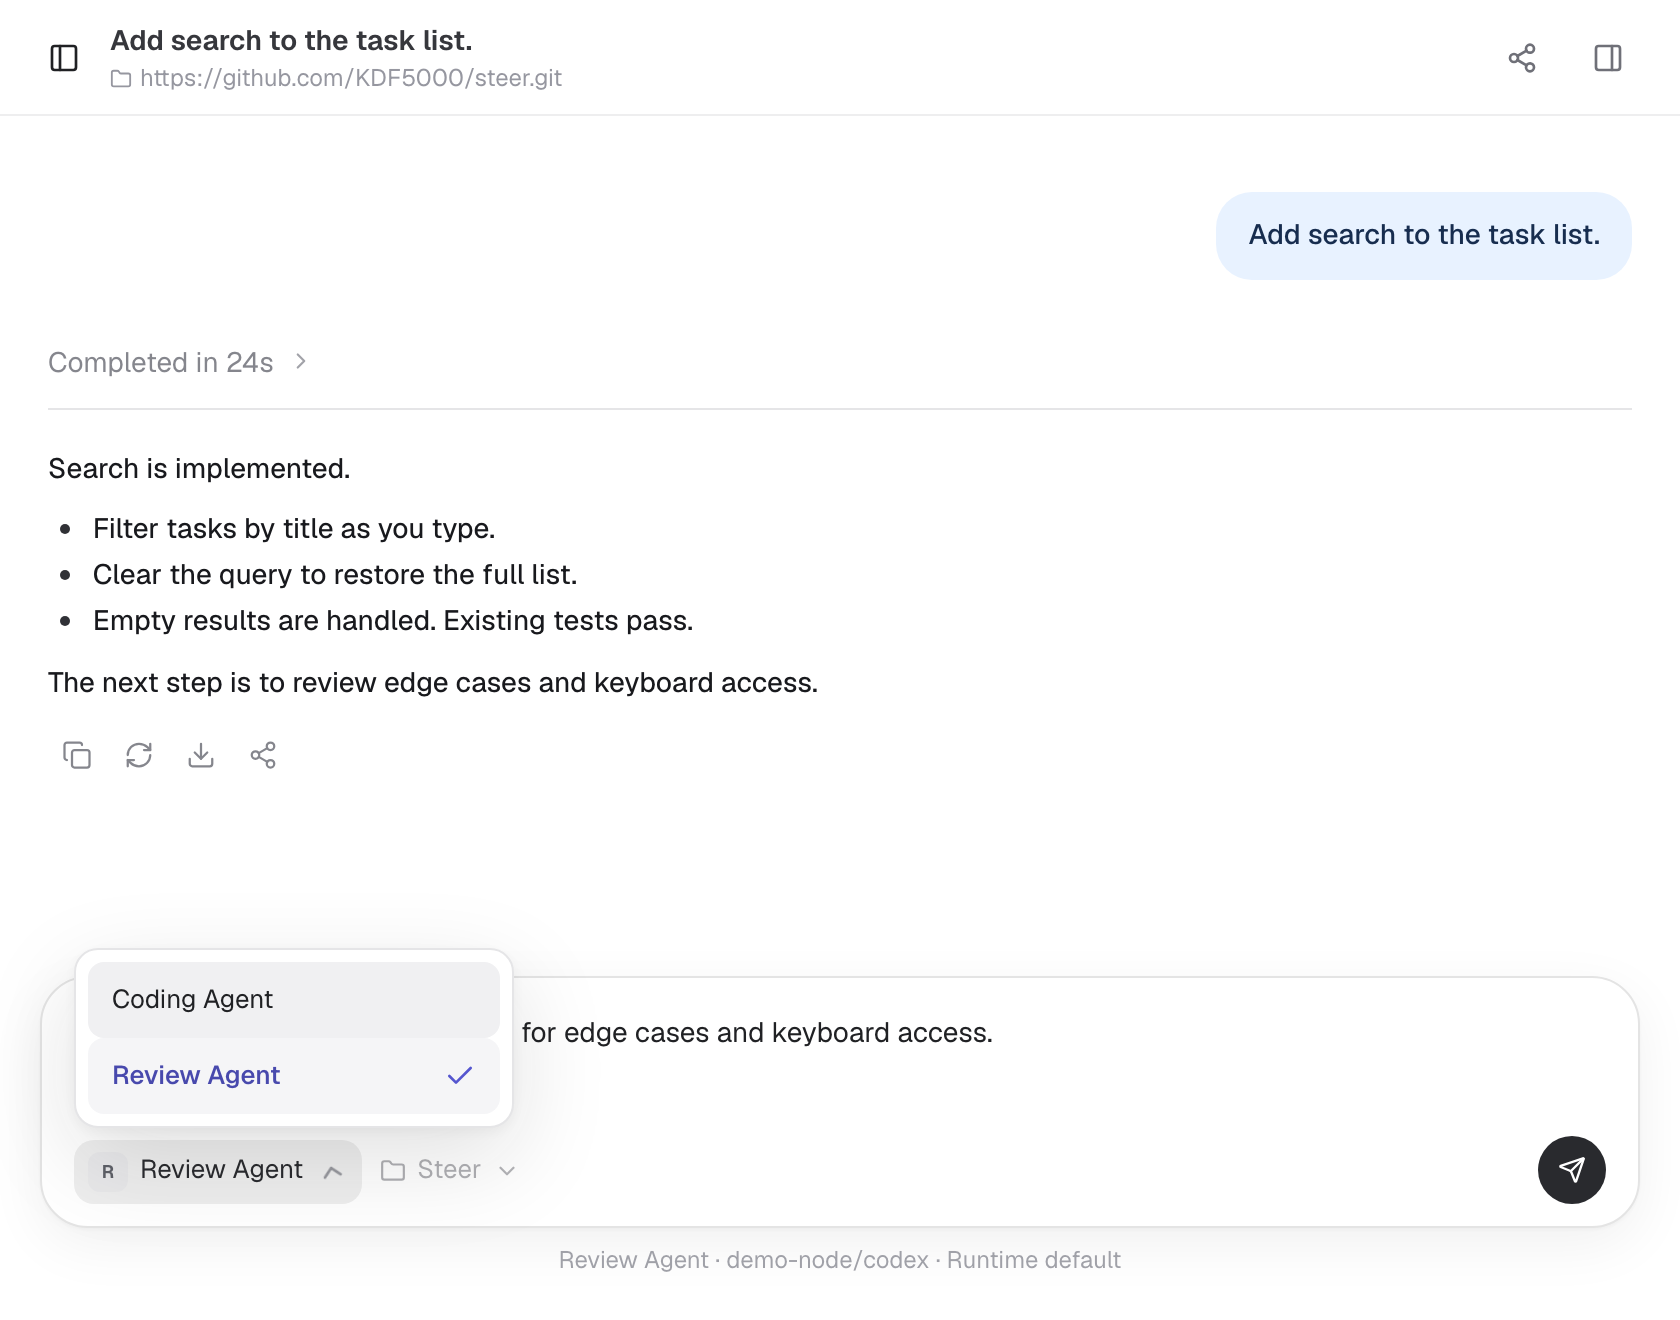
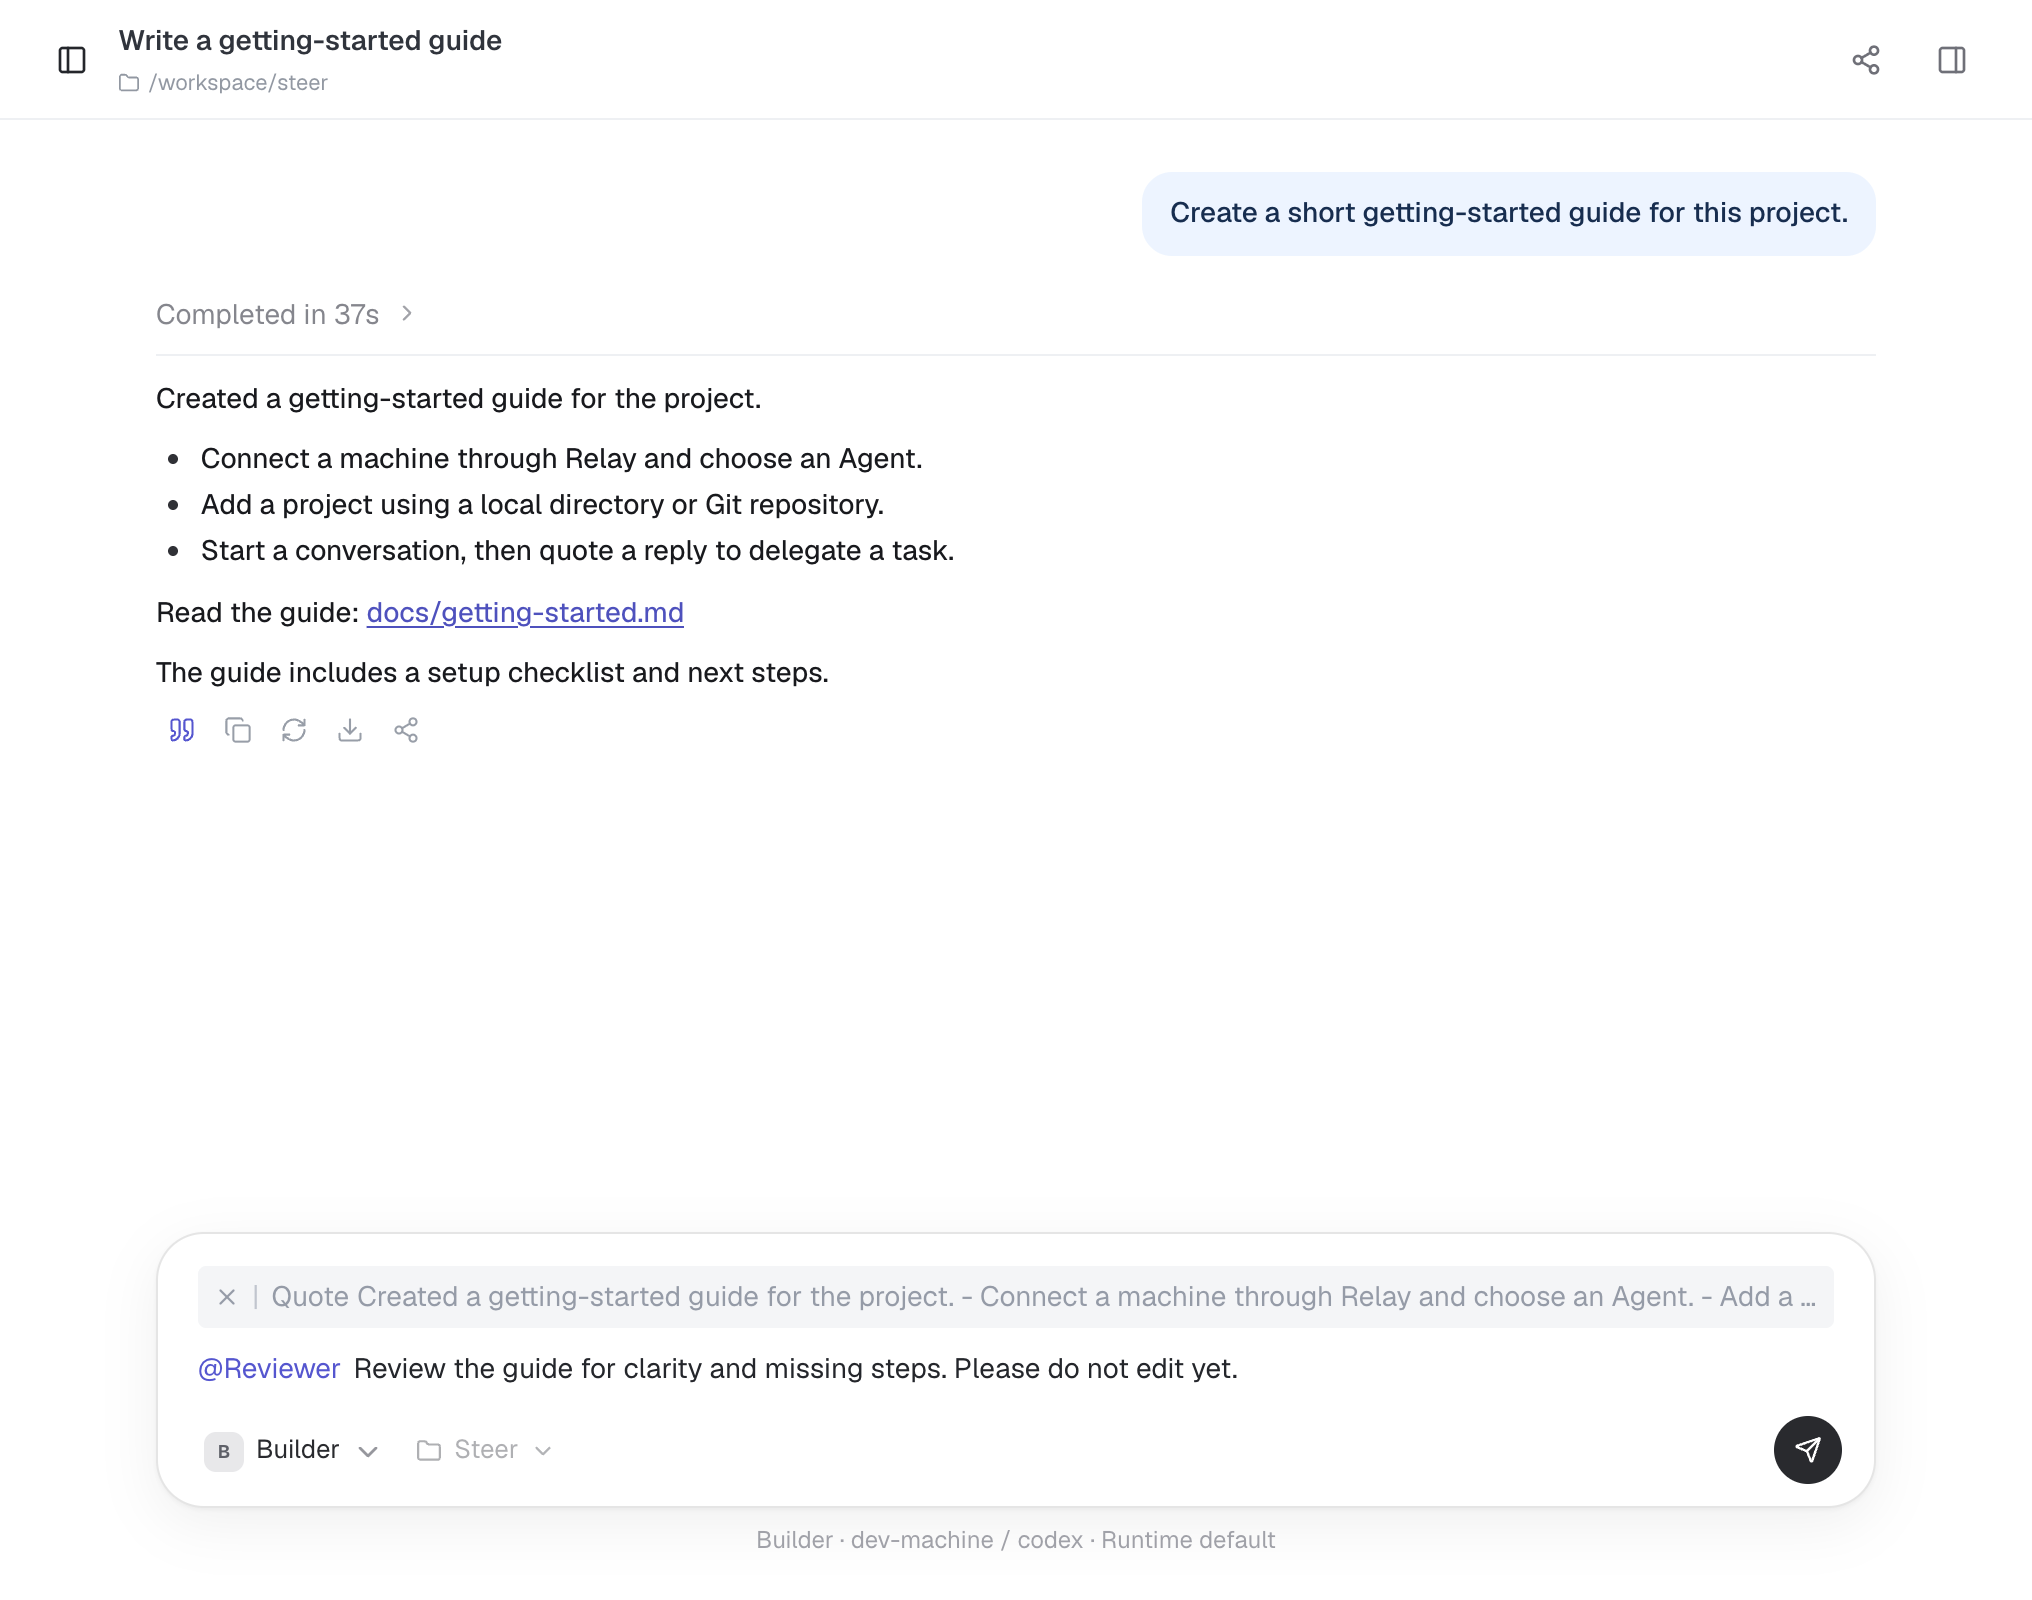
docs: refresh website product screenshots and runtime support

diff --git a/website/src/i18n.ts b/website/src/i18n.ts
@@ -61,13 +61,13 @@ export const homeZhCN = {
   'Steer Web': 'Steer Web',
   'Conversation Task API': 'Conversation Task API',
   'An open-source workspace for your agents': '统一管理多个 Agent 的开源工作台',
-  'Bring Codex, Trae, Claude Code, Pi, Qoder, and QwenWork into one workspace.':
-    '把 Codex、Trae、Claude Code、Pi、Qoder 和千问办公接入同一个工作台。',
+  'Bring Codex, Trae, Claude Code, OpenCode, Pi, Qoder, and QwenWork into one workspace.':
+    '把 Codex、Trae、Claude Code、OpenCode、Pi、Qoder 和千问办公接入同一个工作台。',
   QwenWork: '千问办公',
   'Run tasks on local or remote machines. Organize your work through projects and conversations.':
     '在本地或远程机器上执行任务，通过项目和会话统一管理工作。',
-  'Steer brings agents and runtimes across your machines into one open-source workspace. Connect Codex, Trae, Claude Code, Pi, Qoder, and QwenWork, run tasks locally or remotely, and organize work through projects and conversations.':
-    'Steer 将不同机器上的 Agent 和 Runtime 接入同一个开源工作台。连接 Codex、Trae、Claude Code、Pi、Qoder 和千问办公，在本地或远程执行任务，通过项目和会话统一管理工作。',
+  'Steer brings agents and runtimes across your machines into one open-source workspace. Connect Codex, Trae, Claude Code, OpenCode, Pi, Qoder, and QwenWork, run tasks locally or remotely, and organize work through projects and conversations.':
+    'Steer 将不同机器上的 Agent 和 Runtime 接入同一个开源工作台。连接 Codex、Trae、Claude Code、OpenCode、Pi、Qoder 和千问办公，在本地或远程执行任务，通过项目和会话统一管理工作。',
   'Choose a project. ': '选好项目，',
   'Give your agent a task.': '把具体任务交给 Agent。',
   'Choose a project and an agent': '选择项目和 Agent',
@@ -88,20 +88,20 @@ export const homeZhCN = {
   'Same conversation': '同一会话',
   'View the agent handoff screenshot in a new tab':
     '在新标签页查看切换 Agent 的截图',
-  'Real Steer conversation with completed implementation, the review agent selected, and a follow-up ready to send':
-    '真实 Steer 对话：保留已完成的实现，选中审查 Agent，准备发送后续检查请求',
-  'Real interface · example conversation, ready for review':
-    '真实界面 · 切换 Agent 后继续追问的示例',
-  'Switch between agents compatible with the conversation’s runtime.':
-    '可选择的 Agent 需与当前会话的运行环境兼容。',
+  'Real Steer conversation with a quoted reply and a same-machine agent selected for delegation':
+    '真实 Steer 对话：引用已有回复，选中同机 Agent，准备委派下一轮任务',
+  'Real interface · quote and delegate to another agent':
+    '真实界面 · 引用回复并委派给另一个 Agent',
+  'Project stays on one machine; choose any connected agent on that machine.':
+    '项目固定在一台机器上，可选择已接入工作区的同机 Agent。',
   'Local directory': '本地目录',
   'Work where your files live': '直接使用已有项目文件',
   'Git worktree': 'Git 工作区',
   'Separate changes for each conversation': '不同会话的改动互不干扰',
   'See the process. Keep the result.': '过程看得见，结果留得住。',
   'Preview, download, revisit': '可预览、下载，方便日后查看',
-  'Switch agents in the same conversation and keep the previous messages as context. Go from coding to review without explaining the task again.':
-    '在同一会话里切换 Agent，保留对话上下文。先写代码，再做审查，不必重新交代背景。',
+  'Switch agents or @mention a teammate. Delegate a task in its own session, then bring the result back to the conversation.':
+    '切换 Agent，或通过 @ 临时委派。任务在独立会话中执行，结果回到当前对话，继续推进。',
   'Start with a task. Review the result, ask follow-up questions, and keep going.':
     '提出任务、查看结果，再接着追问和调整。',
   'Choose a project and an agent, then describe the task.':

diff --git a/website/src/Home.tsx b/website/src/Home.tsx
@@ -131,7 +131,7 @@ export default function HomeContent({
           </h1>
           <p className="website_lead">
             {t(
-              'Bring Codex, Trae, Claude Code, Pi, Qoder, and QwenWork into one workspace.',
+              'Bring Codex, Trae, Claude Code, OpenCode, Pi, Qoder, and QwenWork into one workspace.',
             )}
             <br />
             {t(
@@ -220,6 +220,8 @@ export default function HomeContent({
             <strong>Trae</strong>
             <i />
             <strong>Claude Code</strong>
+            <i />
+            <strong>OpenCode</strong>
             <i />
             <strong>Pi</strong>
             <i />
@@ -352,7 +354,7 @@ export default function HomeContent({
             <h2>{t('Switch agents. Keep going.')}</h2>
             <p className="website_highlightCopy">
               {t(
-                'Switch agents in the same conversation and keep the previous messages as context. Go from coding to review without explaining the task again.',
+                'Switch agents or @mention a teammate. Delegate a task in its own session, then bring the result back to the conversation.',
               )}
             </p>
             <div
@@ -379,22 +381,22 @@ export default function HomeContent({
               >
                 <img
                   src={handoffScreenshot}
-                  width={1680}
-                  height={1320}
+                  width={2032}
+                  height={1600}
                   loading="lazy"
                   decoding="async"
                   alt={t(
-                    'Real Steer conversation with completed implementation, the review agent selected, and a follow-up ready to send',
+                    'Real Steer conversation with a quoted reply and a same-machine agent selected for delegation',
                   )}
                 />
               </a>
               <figcaption>
-                {t('Real interface · example conversation, ready for review')}
+                {t('Real interface · quote and delegate to another agent')}
               </figcaption>
             </figure>
             <p className="website_handoffNote">
               {t(
-                'Switch between agents compatible with the conversation’s runtime.',
+                'Project stays on one machine; choose any connected agent on that machine.',
               )}
             </p>
           </article>

diff --git a/website/src/render.tsx b/website/src/render.tsx
@@ -6,7 +6,7 @@ export function render(locale: Locale, appUrl: string) {
   const titleKey =
     'Steer — Different machines. Different agents. One workspace.';
   const descriptionKey =
-    'Steer brings agents and runtimes across your machines into one open-source workspace. Connect Codex, Trae, Claude Code, Pi, Qoder, and QwenWork, run tasks locally or remotely, and organize work through projects and conversations.';
+    'Steer brings agents and runtimes across your machines into one open-source workspace. Connect Codex, Trae, Claude Code, OpenCode, Pi, Qoder, and QwenWork, run tasks locally or remotely, and organize work through projects and conversations.';
   return {
     title: locale === 'zh' ? homeZhCN[titleKey] : titleKey,
     description: locale === 'zh' ? homeZhCN[descriptionKey] : descriptionKey,

diff --git a/docs/prototypes/website-product-shots/2026-10-24/README.md b/docs/prototypes/website-product-shots/2026-10-24/README.md
@@ -1,0 +1,9 @@
+# 官网产品截图更新 · 2026-10-24
+
+- `before/`：更新前的六张官网产品截图，原样保留。
+- `after/`：当前工作台生成的六张截图及中英文官网桌面、手机整页预览。
+- 生成脚本：`website/scripts/capture-product-shots.mjs`，使用独立浏览器和演示 API，不写入真实业务数据。
+
+主图展示快速入门指南对话与折叠目录后的文档预览，提供 1280 × 800（1x）和 2560 × 1600（2x）。委派图展示引用 Builder 回复、@Reviewer 和用户任务输入，聊天区域尺寸为 2032 × 1600（2x）。沿用当前正式工作台的 Logo、聊天字体和输入框样式。
+
+Runtime 文案以 Relay v0.5.6 内置适配器为依据，补入 OpenCode，完整列表为 Codex、Trae、Claude Code、OpenCode、Pi、Qoder、QwenWork（千问办公）。同步更新项目机器限制与独立委派会话的中英文说明。
